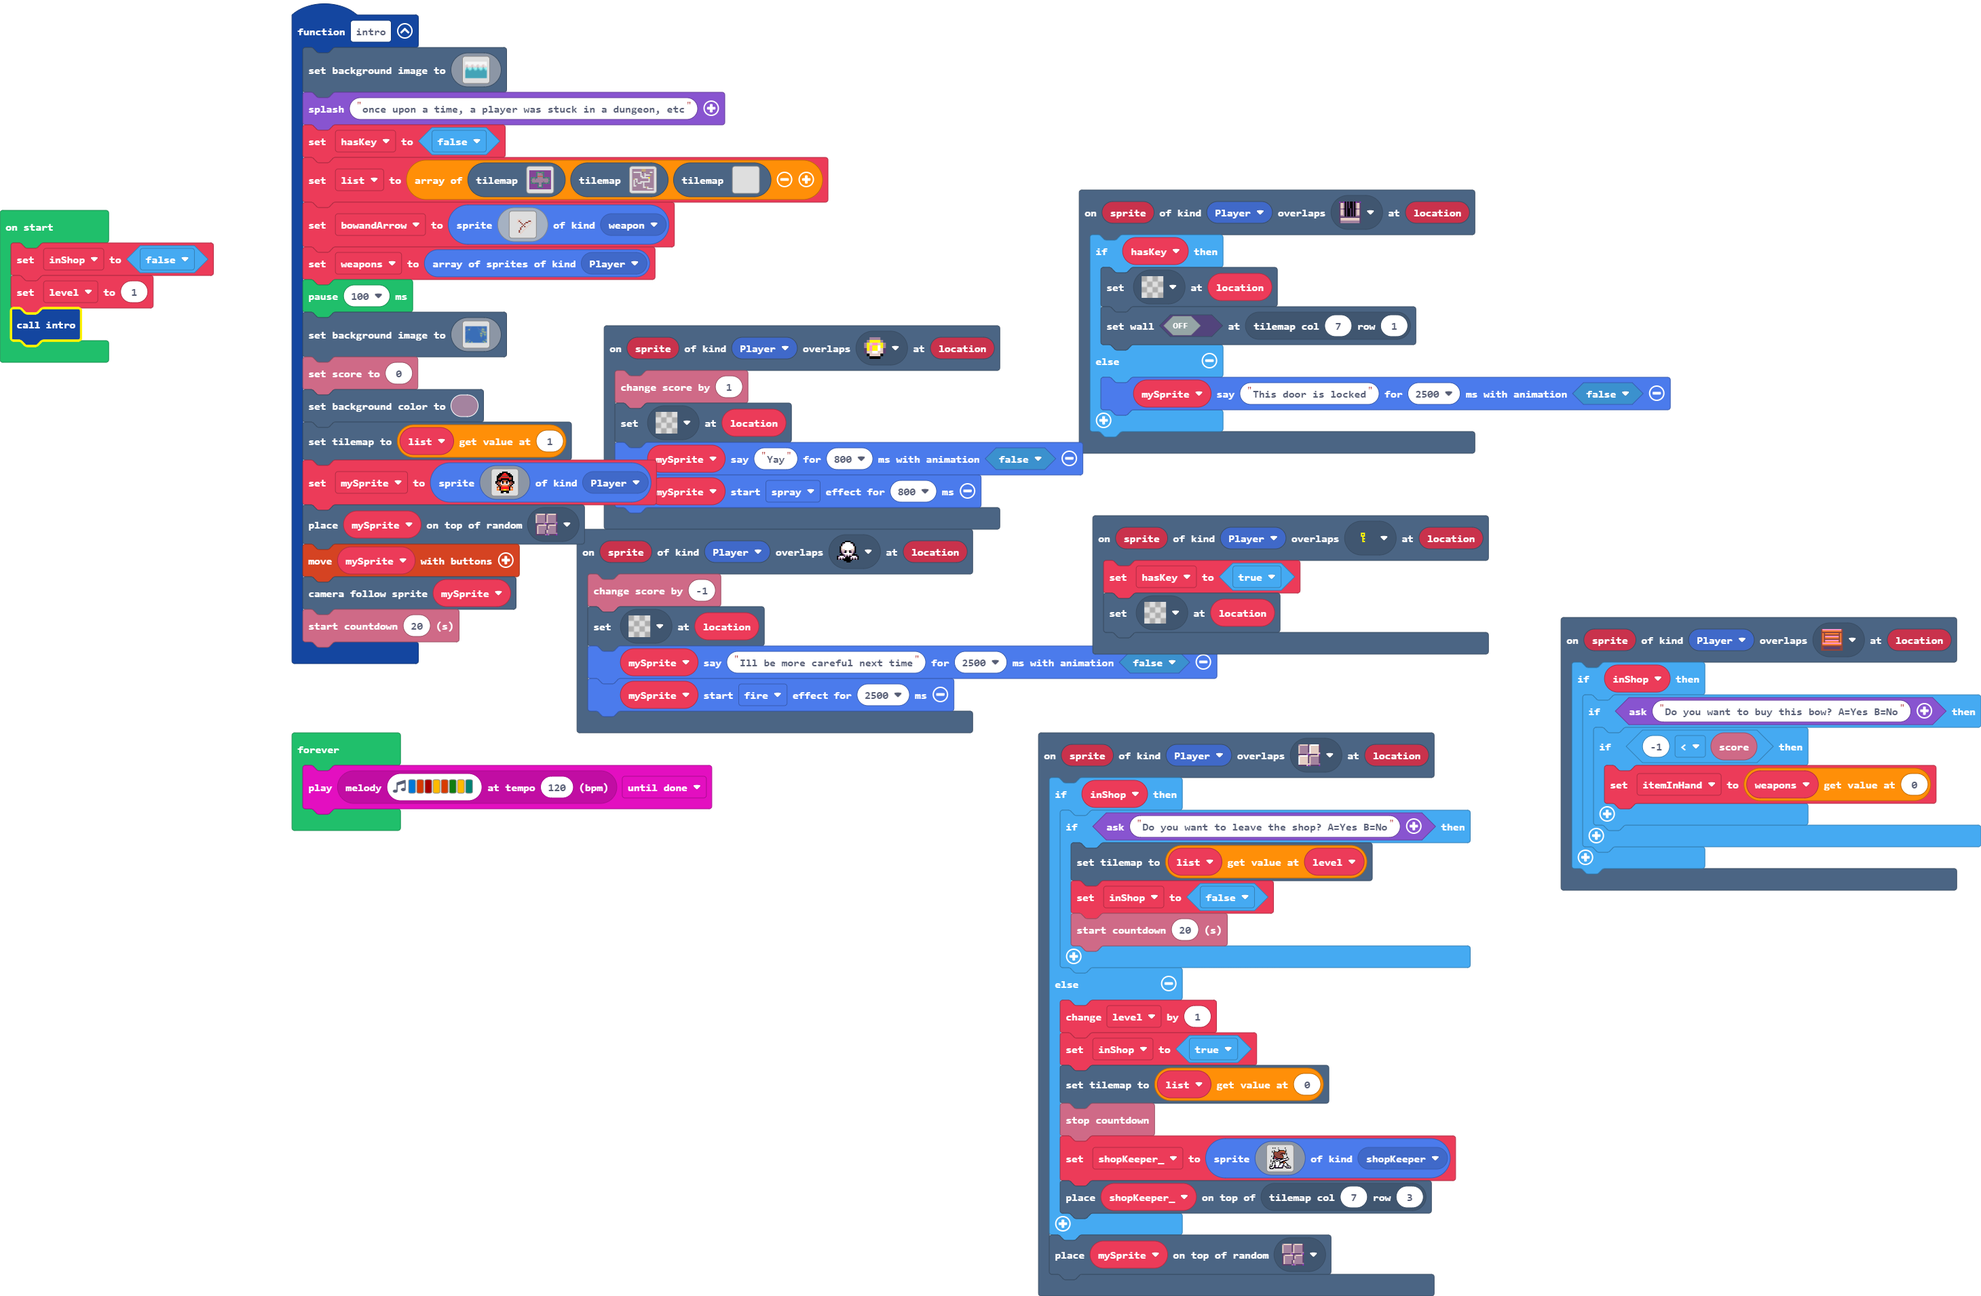
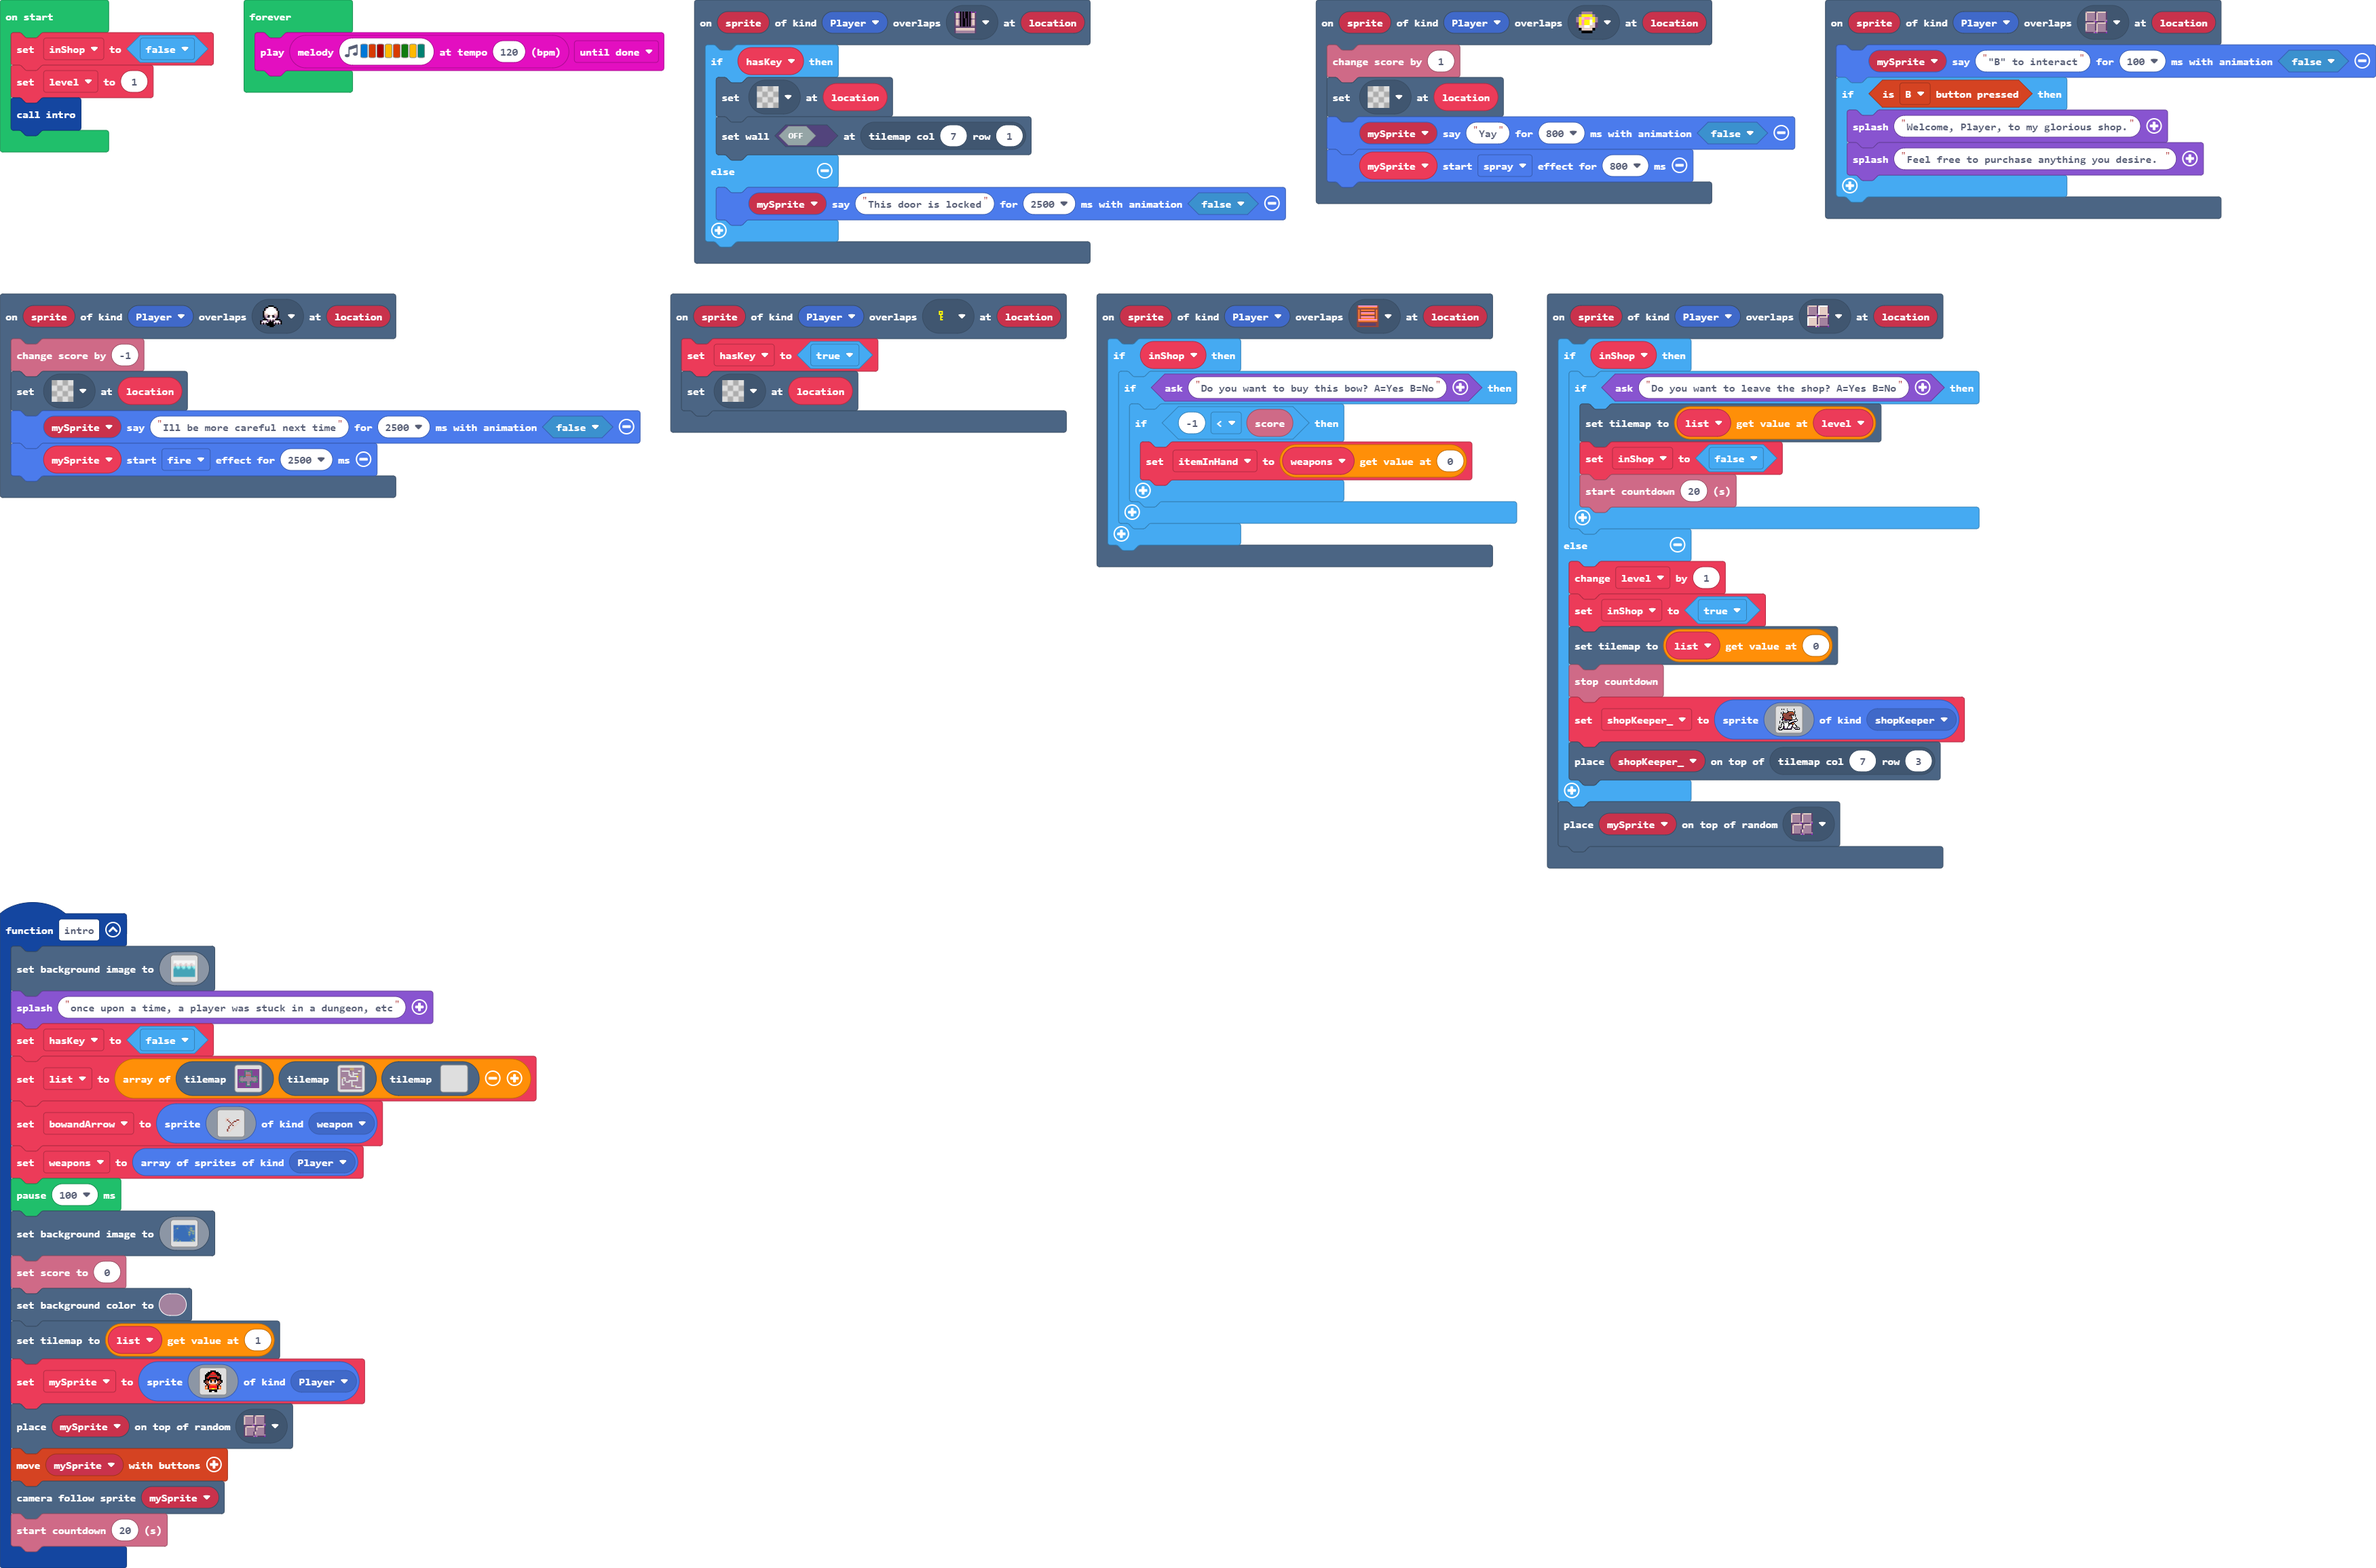
Update main.blocks, main.ts, tilemap.g.jres, tilemap.g.ts

diff --git a/tilemap.g.ts b/tilemap.g.ts
@@ -8,6 +8,8 @@ namespace myTiles {
     export const tile2 = image.ofBuffer(hex``);
     //% fixedInstance jres blockIdentity=images._tile
     export const tile3 = image.ofBuffer(hex``);
+    //% fixedInstance jres blockIdentity=images._tile
+    export const tile4 = image.ofBuffer(hex``);
 
     helpers._registerFactory("tilemap", function(name: string) {
         switch(helpers.stringTrim(name)) {
@@ -296,23 +298,6 @@ namespace myTiles {
 2 2 2 2 2 2 2 2 2 2 2 . . . . . 
 2 2 2 2 2 2 2 2 2 2 2 2 2 2 2 2 
 `, [myTiles.transparency16,sprites.dungeon.floorDark0,sprites.dungeon.floorMixed,myTiles.tile1,myTiles.tile2,myTiles.tile3,sprites.dungeon.doorClosedSouth,sprites.dungeon.floorDark4], TileScale.Sixteen);
-            case "level15":
[1 lines of base64/hex data omitted]
-. . . . . . . . . . . . . . . . 
-. . . . . 2 2 2 2 2 2 . . . . . 
-. . . . . 2 . . . . 2 . . . . . 
-. . . . . 2 . . . . 2 . . . . . 
-. . . . . 2 2 2 2 2 2 . . . . . 
-. 2 2 2 2 2 . . . . 2 2 2 2 2 . 
-. 2 . . . . . . . . . . . . 2 . 
-. 2 . . . . . . . . . . . . 2 . 
-. 2 . . . . . . . . . . . . 2 . 
-. 2 2 2 2 2 2 . . 2 2 2 2 2 2 . 
-. . . . . . 2 . . 2 . . . . . . 
-. . . . . . 2 . . 2 . . . . . . 
-. . . . . . 2 2 2 2 . . . . . . 
-. . . . . . . . . . . . . . . . 
-`, [myTiles.transparency16,sprites.dungeon.greenOuterNorth0,sprites.dungeon.greenOuterNorthWest,sprites.dungeon.greenOuterNorthEast,sprites.dungeon.greenOuterEast0,sprites.dungeon.greenOuterWest1,sprites.dungeon.greenInnerSouthWest,sprites.dungeon.greenInnerSouthEast,sprites.dungeon.greenOuterSouthWest,sprites.dungeon.greenOuterSouthEast,sprites.dungeon.greenOuterSouth0,sprites.dungeon.greenOuterNorth2,sprites.dungeon.greenOuterEast2,sprites.dungeon.greenOuterWest2,sprites.dungeon.greenOuterSouth2,sprites.dungeon.greenInnerNorthWest,sprites.dungeon.greenInnerNorthEast,sprites.dungeon.floorDark3,sprites.dungeon.floorDark0,sprites.dungeon.floorDark1,sprites.dungeon.stairLadder,sprites.dungeon.purpleOuterWest1,sprites.dungeon.purpleOuterEast0,sprites.dungeon.purpleOuterWest0,sprites.dungeon.greenOuterSouth1,sprites.dungeon.floorDark4,sprites.dungeon.floorMixed], TileScale.Sixteen);
             case "level17":
             case "level17":return tiles.createTilemap(hex`1000100000000000000000000000000000000000000000000000000000000000000000000000000000000000000000000000000000000000000000000000000000000000000000000000000000000000000000000000000000000000000000000000000000000000000000000000000000000000000000000000000000000000000000000000000000000000000000000000000000000000000000000000000000000000000000000000000000000000000000000000000000000000000000000000000000000000000000000000000000000000000000000000000000000000000000000000000000000000000000000000000000000000000000000000000000000000`, img`
 . . . . . . . . . . . . . . . . 
@@ -370,6 +355,23 @@ namespace myTiles {
 . . . . . . . . . . . . . . . . 
 . . . . . . . . . . . . . . . . 
 `, [myTiles.transparency16], TileScale.Sixteen);
+            case "level15":
[1 lines of base64/hex data omitted]
+. . . . . . . . . . . . . . . . 
+. . . . . 2 2 2 2 2 2 . . . . . 
+. . . . . 2 . . . . 2 . . . . . 
+. . . . . 2 . . . . 2 . . . . . 
+. . . . . 2 2 2 2 2 2 . . . . . 
+. 2 2 2 2 2 . . . . 2 2 2 2 2 . 
+. 2 . . . . . . . . . . . . 2 . 
+. 2 . . . . . . . . . . . . 2 . 
+. 2 . . . . . . . . . . . . 2 . 
+. 2 2 2 2 2 2 . . 2 2 2 2 2 2 . 
+. . . . . . 2 . . 2 . . . . . . 
+. . . . . . 2 . . 2 . . . . . . 
+. . . . . . 2 2 2 2 . . . . . . 
+. . . . . . . . . . . . . . . . 
+`, [myTiles.transparency16,sprites.dungeon.greenOuterNorth0,sprites.dungeon.greenOuterNorthWest,sprites.dungeon.greenOuterNorthEast,sprites.dungeon.greenOuterEast0,sprites.dungeon.greenOuterWest1,sprites.dungeon.greenInnerSouthWest,sprites.dungeon.greenInnerSouthEast,sprites.dungeon.greenOuterSouthWest,sprites.dungeon.greenOuterSouthEast,sprites.dungeon.greenOuterSouth0,sprites.dungeon.greenOuterNorth2,sprites.dungeon.greenOuterEast2,sprites.dungeon.greenOuterWest2,sprites.dungeon.greenOuterSouth2,sprites.dungeon.greenInnerNorthWest,sprites.dungeon.greenInnerNorthEast,sprites.dungeon.floorDark3,sprites.dungeon.floorDark0,sprites.dungeon.floorDark1,sprites.dungeon.stairLadder,sprites.dungeon.purpleOuterWest1,sprites.dungeon.purpleOuterEast0,sprites.dungeon.purpleOuterWest0,sprites.dungeon.greenOuterSouth1,sprites.dungeon.floorDark4,sprites.dungeon.floorMixed,myTiles.tile4], TileScale.Sixteen);
         }
         return null;
     })
@@ -383,6 +385,8 @@ namespace myTiles {
             case "tile2":return tile2;
             case "myTile1":
             case "tile3":return tile3;
+            case "myTile2":
+            case "tile4":return tile4;
         }
         return null;
     })

diff --git a/main.ts b/main.ts
@@ -329,6 +329,13 @@ scene.onOverlapTile(SpriteKind.Player, sprites.dungeon.doorClosedSouth, function
         mySprite.sayText("This door is locked", 2500, false)
     }
 })
+scene.onOverlapTile(SpriteKind.Player, assets.tile`myTile2`, function (sprite, location) {
+    mySprite.sayText("\"B\" to interact", 100, false)
+    if (controller.B.isPressed()) {
+        game.splash("Welcome, Player, to my glorious shop.")
+        game.splash("Feel free to purchase anything you desire. ")
+    }
+})
 scene.onOverlapTile(SpriteKind.Player, sprites.dungeon.floorMixed, function (sprite, location) {
     if (inShop) {
         if (game.ask("Do you want to leave the shop? A=Yes B=No")) {
